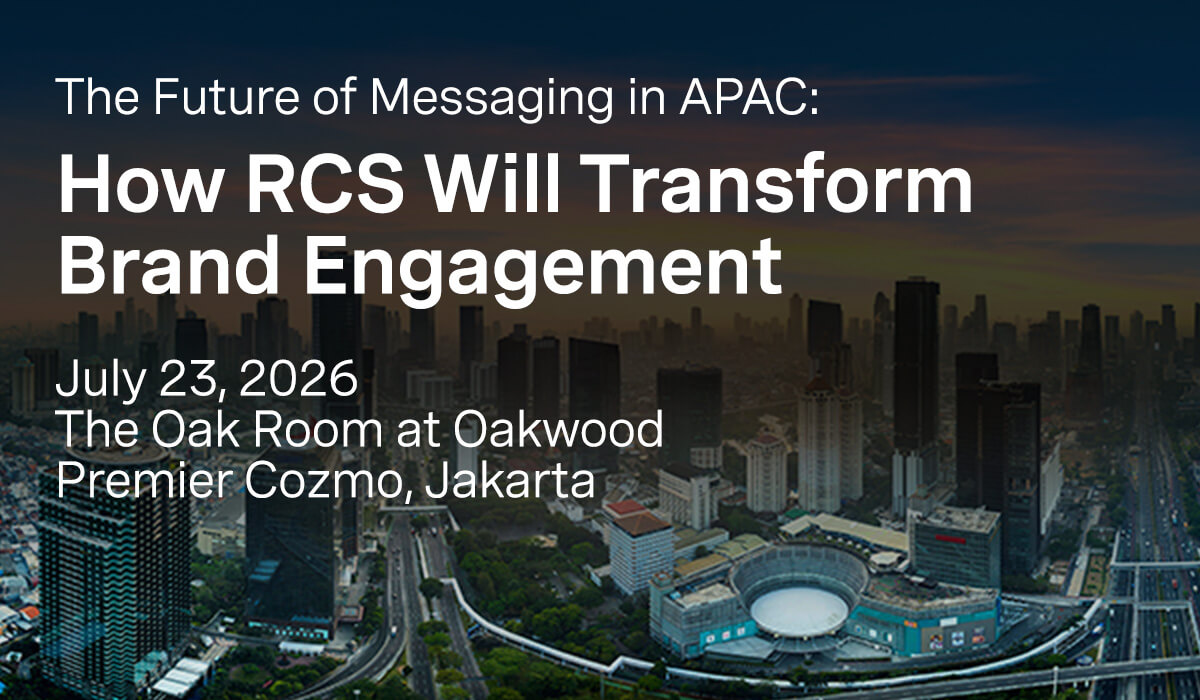
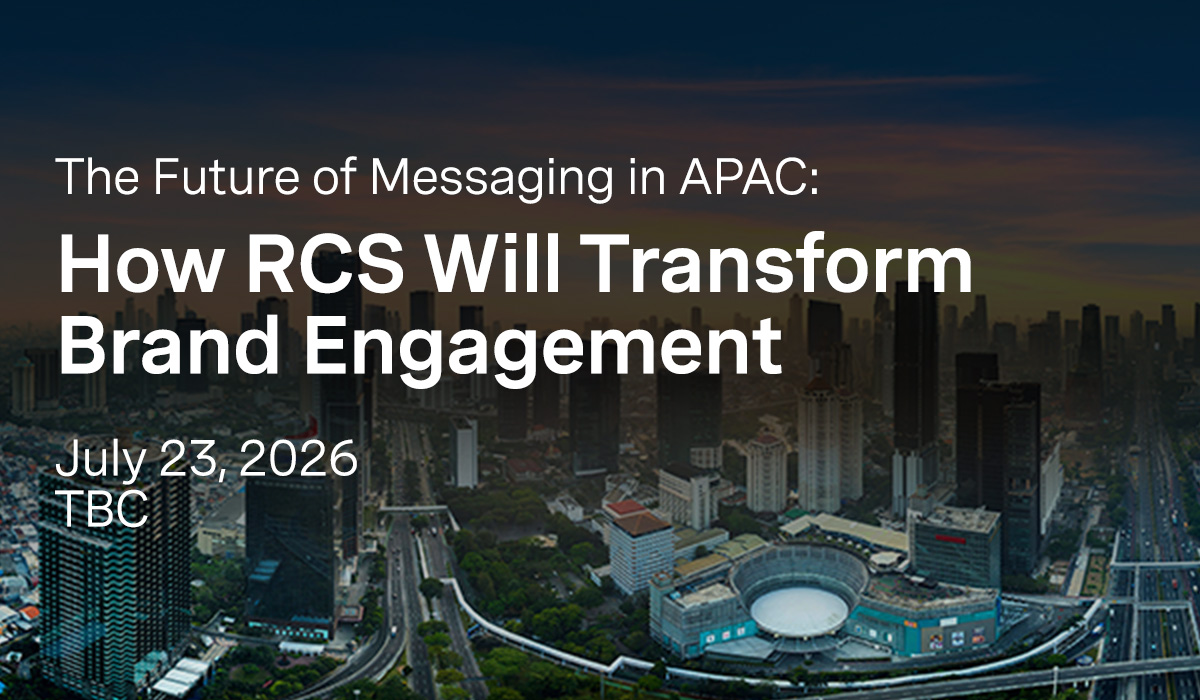
TBC

Changed region(s): [[0.0308, 0.33, 0.8325, 0.75], [0.0308, 0.21, 0.8325, 0.3], [0.0308, 0.09, 0.6783, 0.18]]

diff --git a/index.html b/index.html
@@ -51,4 +51,4 @@
             a[x-apple-data-detectors] { color: inherit !important; text-decoration: none !important; font-size: inherit !important; font-family: inherit !important;vfont-weight: inherit !important; line-height: inherit !important; }
             @media only screen and (max-width:480px) {  
             }
-    </style><meta name="color-scheme" content="light"><meta name="supported-color-schemes" content="light"></head><body class="body-wrapper" style="word-spacing:normal;background-color:#ffffff;"> <div aria-label="Confirmation" aria-roledescription="email" role="article" lang="en" dir="ltr" style="word-spacing:normal;background-color:#ffffff;"> <!--[if mso | IE]><table align="center" border="0" cellpadding="0" cellspacing="0" class="" role="presentation" style="width:600px;" width="600" ><tr><td style="line-height:0px;font-size:0px;mso-line-height-rule:exactly;"><![endif]--> <div style="margin:0px auto;max-width:600px;"> <table align="center" border="0" cellpadding="0" cellspacing="0" role="presentation" style="width:100%;"> <tbody> <tr> <td style="direction:ltr;font-size:0px;padding:0;text-align:center;"> <!--[if mso | IE]><table role="presentation" border="0" cellpadding="0" cellspacing="0"><tr><td class="" style="vertical-align:top;width:600px;" ><![endif]--> <div class="mj-column-per-100 mj-outlook-group-fix" style="font-size:0px;text-align:left;direction:ltr;display:inline-block;vertical-align:top;width:100%;"> <table border="0" cellpadding="0" cellspacing="0" role="presentation" width="100%"> <tbody> <tr> <td style="vertical-align:top;padding:0;"> <table border="0" cellpadding="0" cellspacing="0" role="presentation" width="100%"> <tbody> <tr> <td align="right" style="font-size:0px;padding:10px;word-break:break-word;"> <div style="font-family:Roboto, sans-serif;font-size:12px;line-height:22px;text-align:right;color:#A1A1A1;">No images? <webversion style="color: #A1A1A1; text-decoration: underline; font-family: Roboto, sans-serif; font-size: 12px; line-height: 22px; color: #A1A1A1; text-decoration: underline; cursor:pointer;"> <span style="color: #A1A1A1; text-decoration: underline; font-family: Roboto, sans-serif; font-size: 12px; line-height: 22px; color: #A1A1A1; text-decoration: underline; cursor:pointer;">Click here</span> </webversion></div> </td> </tr> </tbody> </table> </td> </tr> </tbody> </table> </div> <!--[if mso | IE]></td></tr></table><![endif]--> </td> </tr> </tbody> </table> </div> <!--[if mso | IE]></td></tr></table><table align="center" border="0" cellpadding="0" cellspacing="0" class="" role="presentation" style="width:600px;" width="600" ><tr><td style="line-height:0px;font-size:0px;mso-line-height-rule:exactly;"><![endif]--> <div style="margin:0px auto;max-width:600px;"> <table align="center" border="0" cellpadding="0" cellspacing="0" role="presentation" style="width:100%;"> <tbody> <tr> <td style="direction:ltr;font-size:0px;padding:0;text-align:center;"> <!--[if mso | IE]><table role="presentation" border="0" cellpadding="0" cellspacing="0"><tr><td class="" style="vertical-align:top;width:600px;" ><![endif]--> <div class="mj-column-per-100 mj-outlook-group-fix" style="font-size:0px;text-align:left;direction:ltr;display:inline-block;vertical-align:top;width:100%;"> <table border="0" cellpadding="0" cellspacing="0" role="presentation" width="100%"> <tbody> <tr> <td style="vertical-align:top;padding:0;"> <table border="0" cellpadding="0" cellspacing="0" role="presentation" width="100%"> <tbody> <tr> <td align="center" style="font-size:0px;padding:0;word-break:break-word;"> <table border="0" cellpadding="0" cellspacing="0" role="presentation" style="border-collapse:collapse;border-spacing:0px;"> <tbody> <tr> <td style="width:600px;"> <a href="https://telkomsel.vonagefuturesecure.com//" target="_blank"> <img alt="How RCS will transform Brand engagement" src="images/23Header.jpg" style="border:0;display:block;outline:none;text-decoration:none;height:auto;width:100%;font-size:13px;" width="600" height="auto"> </a> </td> </tr> </tbody> </table> </td> </tr> </tbody> </table> </td> </tr> </tbody> </table> </div> <!--[if mso | IE]></td></tr></table><![endif]--> </td> </tr> </tbody> </table> </div> <!--[if mso | IE]></td></tr></table><table align="center" border="0" cellpadding="0" cellspacing="0" class="" role="presentation" style="width:600px;" width="600" ><tr><td style="line-height:0px;font-size:0px;mso-line-height-rule:exactly;"><![endif]--> <div style="margin:0px auto;max-width:600px;"> <table align="center" border="0" cellpadding="0" cellspacing="0" role="presentation" style="width:100%;"> <tbody> <tr> <td style="direction:ltr;font-size:0px;padding:0;text-align:center;"> <!--[if mso | IE]><table role="presentation" border="0" cellpadding="0" cellspacing="0"><tr><td class="" style="vertical-align:top;width:600px;" ><![endif]--> <div class="mj-column-per-100 mj-outlook-group-fix" style="font-size:0px;text-align:left;direction:ltr;display:inline-block;vertical-align:top;width:100%;"> <table border="0" cellpadding="0" cellspacing="0" role="presentation" width="100%"> <tbody> <tr> <td style="vertical-align:top;padding:60px 30px 60px 30px;"> <table border="0" cellpadding="0" cellspacing="0" role="presentation" width="100%"> <tbody> <tr> <td align="left" style="font-size:0px;padding:0;padding-bottom:30px;word-break:break-word;"> <div style="font-family:Roboto, sans-serif;font-size:16px;line-height:26px;text-align:left;color:#000000;">Dear [firstname,fallback=],</div> </td> </tr> <tr> <td align="left" style="font-size:0px;padding:0;padding-bottom:30px;word-break:break-word;"> <div style="font-family:Roboto, sans-serif;font-size:16px;line-height:26px;text-align:left;color:#000000;">Thank you for registering for <b>The Future of Messaging in APAC: How RCS Will Transform Brand Engagement</b>, hosted by Vonage. We're pleased to confirm your attendance.</div> </td> </tr> <tr> <td align="left" style="font-size:0px;padding:0;padding-bottom:30px;word-break:break-word;"> <div style="font-family:Roboto, sans-serif;font-size:16px;line-height:36px;text-align:left;color:#000000;"><b>Event details:</b><br> 📅 23 July 2026<br> 🕙 10:00 AM - 3:00 PM<br> 📍 <a href="https://www.discoverasr.com/en/oakwood/indonesia/oakwood-premier-cozmo-jakarta/dining" target="_blank" style="color: #000000; text-decoration:underline !important;">Oakroom Restaurant &amp; Bar</a></div> </td> </tr> <tr> <td align="left" style="font-size:0px;padding:0;padding-bottom:30px;word-break:break-word;"> <div style="font-family:Roboto, sans-serif;font-size:16px;line-height:22px;text-align:left;color:#000000;">You'll be joining industry leaders and experts from <b>Vonage</b> and <b>Telkomsel</b> to explore how RCS is shaping the future of business messaging in APAC. Additional event information, including venue details, will be sent ahead of the event.</div> </td> </tr> <tr> <td align="left" style="font-size:0px;padding:0;padding-bottom:30px;word-break:break-word;"> <div style="font-family:Roboto, sans-serif;font-size:16px;line-height:22px;text-align:left;color:#000000;">We look forward to seeing you there.</div> </td> </tr> <tr> <td align="left" style="font-size:0px;padding:0;word-break:break-word;"> <div style="font-family:Roboto, sans-serif;font-size:16px;line-height:22px;text-align:left;color:#000000;">Kind regards,<br> <b>Vonage</b><br> APAC RCS Event Team</div> </td> </tr> </tbody> </table> </td> </tr> </tbody> </table> </div> <!--[if mso | IE]></td></tr></table><![endif]--> </td> </tr> </tbody> </table> </div> <!--[if mso | IE]></td></tr></table><table align="center" border="0" cellpadding="0" cellspacing="0" class="" role="presentation" style="width:600px;" width="600" ><tr><td style="line-height:0px;font-size:0px;mso-line-height-rule:exactly;"><![endif]--> <div style="margin:0px auto;max-width:600px;"> <table align="center" border="0" cellpadding="0" cellspacing="0" role="presentation" style="width:100%;"> <tbody> <tr> <td style="direction:ltr;font-size:0px;padding:0 30px 60px 30px;text-align:center;"> <!--[if mso | IE]><table role="presentation" border="0" cellpadding="0" cellspacing="0"><tr><td class="" style="vertical-align:top;width:540px;" ><![endif]--> <div class="mj-column-per-100 mj-outlook-group-fix" style="font-size:0px;text-align:left;direction:ltr;display:inline-block;vertical-align:top;width:100%;"> <table border="0" cellpadding="0" cellspacing="0" role="presentation" width="100%"> <tbody> <tr> <td style="vertical-align:top;padding:0;"> <table border="0" cellpadding="0" cellspacing="0" role="presentation" width="100%"> <tbody> <tr> <td align="left" style="font-size:0px;padding:0;word-break:break-word;"> <div style="font-family:Roboto, sans-serif;font-size:12px;line-height:22px;text-align:left;color:#A1A1A1;"><preferences style="color: #A1A1A1; text-decoration: underline; font-family: Roboto, sans-serif; font-size: 12px; line-height: 22px; color: #A1A1A1; text-decoration: underline; cursor:pointer;"> <span style="color: #A1A1A1; text-decoration: underline; font-family: Roboto, sans-serif; font-size: 12px; line-height: 22px; color: #A1A1A1; text-decoration: underline; cursor:pointer;">Preferences</span> </preferences> &nbsp;&nbsp;|&nbsp;&nbsp; <unsubscribe style="color: #A1A1A1; text-decoration: underline; font-family: Roboto, sans-serif; font-size: 12px; line-height: 22px; color: #A1A1A1; text-decoration: underline; cursor:pointer;"> <span style="color: #A1A1A1; text-decoration: underline; font-family: Roboto, sans-serif; font-size: 12px; line-height: 22px; color: #A1A1A1; text-decoration: underline; cursor:pointer;">Unsubscribe</span> </unsubscribe></div> </td> </tr> </tbody> </table> </td> </tr> </tbody> </table> </div> <!--[if mso | IE]></td></tr></table><![endif]--> </td> </tr> </tbody> </table> </div> <!--[if mso | IE]></td></tr></table><![endif]--> </div> </body></html>
+    </style><meta name="color-scheme" content="light"><meta name="supported-color-schemes" content="light"></head><body class="body-wrapper" style="word-spacing:normal;background-color:#ffffff;"> <div aria-label="Confirmation" aria-roledescription="email" role="article" lang="en" dir="ltr" style="word-spacing:normal;background-color:#ffffff;"> <!--[if mso | IE]><table align="center" border="0" cellpadding="0" cellspacing="0" class="" role="presentation" style="width:600px;" width="600" ><tr><td style="line-height:0px;font-size:0px;mso-line-height-rule:exactly;"><![endif]--> <div style="margin:0px auto;max-width:600px;"> <table align="center" border="0" cellpadding="0" cellspacing="0" role="presentation" style="width:100%;"> <tbody> <tr> <td style="direction:ltr;font-size:0px;padding:0;text-align:center;"> <!--[if mso | IE]><table role="presentation" border="0" cellpadding="0" cellspacing="0"><tr><td class="" style="vertical-align:top;width:600px;" ><![endif]--> <div class="mj-column-per-100 mj-outlook-group-fix" style="font-size:0px;text-align:left;direction:ltr;display:inline-block;vertical-align:top;width:100%;"> <table border="0" cellpadding="0" cellspacing="0" role="presentation" width="100%"> <tbody> <tr> <td style="vertical-align:top;padding:0;"> <table border="0" cellpadding="0" cellspacing="0" role="presentation" width="100%"> <tbody> <tr> <td align="right" style="font-size:0px;padding:10px;word-break:break-word;"> <div style="font-family:Roboto, sans-serif;font-size:12px;line-height:22px;text-align:right;color:#A1A1A1;">No images? <webversion style="color: #A1A1A1; text-decoration: underline; font-family: Roboto, sans-serif; font-size: 12px; line-height: 22px; color: #A1A1A1; text-decoration: underline; cursor:pointer;"> <span style="color: #A1A1A1; text-decoration: underline; font-family: Roboto, sans-serif; font-size: 12px; line-height: 22px; color: #A1A1A1; text-decoration: underline; cursor:pointer;">Click here</span> </webversion></div> </td> </tr> </tbody> </table> </td> </tr> </tbody> </table> </div> <!--[if mso | IE]></td></tr></table><![endif]--> </td> </tr> </tbody> </table> </div> <!--[if mso | IE]></td></tr></table><table align="center" border="0" cellpadding="0" cellspacing="0" class="" role="presentation" style="width:600px;" width="600" ><tr><td style="line-height:0px;font-size:0px;mso-line-height-rule:exactly;"><![endif]--> <div style="margin:0px auto;max-width:600px;"> <table align="center" border="0" cellpadding="0" cellspacing="0" role="presentation" style="width:100%;"> <tbody> <tr> <td style="direction:ltr;font-size:0px;padding:0;text-align:center;"> <!--[if mso | IE]><table role="presentation" border="0" cellpadding="0" cellspacing="0"><tr><td class="" style="vertical-align:top;width:600px;" ><![endif]--> <div class="mj-column-per-100 mj-outlook-group-fix" style="font-size:0px;text-align:left;direction:ltr;display:inline-block;vertical-align:top;width:100%;"> <table border="0" cellpadding="0" cellspacing="0" role="presentation" width="100%"> <tbody> <tr> <td style="vertical-align:top;padding:0;"> <table border="0" cellpadding="0" cellspacing="0" role="presentation" width="100%"> <tbody> <tr> <td align="center" style="font-size:0px;padding:0;word-break:break-word;"> <table border="0" cellpadding="0" cellspacing="0" role="presentation" style="border-collapse:collapse;border-spacing:0px;"> <tbody> <tr> <td style="width:600px;"> <a href="https://telkomsel.vonagefuturesecure.com//" target="_blank"> <img alt="How RCS will transform Brand engagement" src="images/23Header.jpg" style="border:0;display:block;outline:none;text-decoration:none;height:auto;width:100%;font-size:13px;" width="600" height="auto"> </a> </td> </tr> </tbody> </table> </td> </tr> </tbody> </table> </td> </tr> </tbody> </table> </div> <!--[if mso | IE]></td></tr></table><![endif]--> </td> </tr> </tbody> </table> </div> <!--[if mso | IE]></td></tr></table><table align="center" border="0" cellpadding="0" cellspacing="0" class="" role="presentation" style="width:600px;" width="600" ><tr><td style="line-height:0px;font-size:0px;mso-line-height-rule:exactly;"><![endif]--> <div style="margin:0px auto;max-width:600px;"> <table align="center" border="0" cellpadding="0" cellspacing="0" role="presentation" style="width:100%;"> <tbody> <tr> <td style="direction:ltr;font-size:0px;padding:0;text-align:center;"> <!--[if mso | IE]><table role="presentation" border="0" cellpadding="0" cellspacing="0"><tr><td class="" style="vertical-align:top;width:600px;" ><![endif]--> <div class="mj-column-per-100 mj-outlook-group-fix" style="font-size:0px;text-align:left;direction:ltr;display:inline-block;vertical-align:top;width:100%;"> <table border="0" cellpadding="0" cellspacing="0" role="presentation" width="100%"> <tbody> <tr> <td style="vertical-align:top;padding:60px 30px 60px 30px;"> <table border="0" cellpadding="0" cellspacing="0" role="presentation" width="100%"> <tbody> <tr> <td align="left" style="font-size:0px;padding:0;padding-bottom:30px;word-break:break-word;"> <div style="font-family:Roboto, sans-serif;font-size:16px;line-height:26px;text-align:left;color:#000000;">Dear [firstname,fallback=],</div> </td> </tr> <tr> <td align="left" style="font-size:0px;padding:0;padding-bottom:30px;word-break:break-word;"> <div style="font-family:Roboto, sans-serif;font-size:16px;line-height:26px;text-align:left;color:#000000;">Thank you for registering for <b>The Future of Messaging in APAC: How RCS Will Transform Brand Engagement</b>, hosted by Vonage. We're pleased to confirm your attendance.</div> </td> </tr> <tr> <td align="left" style="font-size:0px;padding:0;padding-bottom:30px;word-break:break-word;"> <div style="font-family:Roboto, sans-serif;font-size:16px;line-height:36px;text-align:left;color:#000000;"><b>Event details:</b><br> 📅 23 July 2026<br> 🕙 10:00 AM - 3:00 PM<br> 📍 TBC</div> </td> </tr> <tr> <td align="left" style="font-size:0px;padding:0;padding-bottom:30px;word-break:break-word;"> <div style="font-family:Roboto, sans-serif;font-size:16px;line-height:22px;text-align:left;color:#000000;">You'll be joining industry leaders and experts from <b>Vonage</b> and <b>Telkomsel</b> to explore how RCS is shaping the future of business messaging in APAC. Additional event information, including venue details, will be sent ahead of the event.</div> </td> </tr> <tr> <td align="left" style="font-size:0px;padding:0;padding-bottom:30px;word-break:break-word;"> <div style="font-family:Roboto, sans-serif;font-size:16px;line-height:22px;text-align:left;color:#000000;">We look forward to seeing you there.</div> </td> </tr> <tr> <td align="left" style="font-size:0px;padding:0;word-break:break-word;"> <div style="font-family:Roboto, sans-serif;font-size:16px;line-height:22px;text-align:left;color:#000000;">Kind regards,<br> <b>Vonage</b><br> APAC RCS Event Team</div> </td> </tr> </tbody> </table> </td> </tr> </tbody> </table> </div> <!--[if mso | IE]></td></tr></table><![endif]--> </td> </tr> </tbody> </table> </div> <!--[if mso | IE]></td></tr></table><table align="center" border="0" cellpadding="0" cellspacing="0" class="" role="presentation" style="width:600px;" width="600" ><tr><td style="line-height:0px;font-size:0px;mso-line-height-rule:exactly;"><![endif]--> <div style="margin:0px auto;max-width:600px;"> <table align="center" border="0" cellpadding="0" cellspacing="0" role="presentation" style="width:100%;"> <tbody> <tr> <td style="direction:ltr;font-size:0px;padding:0 30px 60px 30px;text-align:center;"> <!--[if mso | IE]><table role="presentation" border="0" cellpadding="0" cellspacing="0"><tr><td class="" style="vertical-align:top;width:540px;" ><![endif]--> <div class="mj-column-per-100 mj-outlook-group-fix" style="font-size:0px;text-align:left;direction:ltr;display:inline-block;vertical-align:top;width:100%;"> <table border="0" cellpadding="0" cellspacing="0" role="presentation" width="100%"> <tbody> <tr> <td style="vertical-align:top;padding:0;"> <table border="0" cellpadding="0" cellspacing="0" role="presentation" width="100%"> <tbody> <tr> <td align="left" style="font-size:0px;padding:0;word-break:break-word;"> <div style="font-family:Roboto, sans-serif;font-size:12px;line-height:22px;text-align:left;color:#A1A1A1;"><preferences style="color: #A1A1A1; text-decoration: underline; font-family: Roboto, sans-serif; font-size: 12px; line-height: 22px; color: #A1A1A1; text-decoration: underline; cursor:pointer;"> <span style="color: #A1A1A1; text-decoration: underline; font-family: Roboto, sans-serif; font-size: 12px; line-height: 22px; color: #A1A1A1; text-decoration: underline; cursor:pointer;">Preferences</span> </preferences> &nbsp;&nbsp;|&nbsp;&nbsp; <unsubscribe style="color: #A1A1A1; text-decoration: underline; font-family: Roboto, sans-serif; font-size: 12px; line-height: 22px; color: #A1A1A1; text-decoration: underline; cursor:pointer;"> <span style="color: #A1A1A1; text-decoration: underline; font-family: Roboto, sans-serif; font-size: 12px; line-height: 22px; color: #A1A1A1; text-decoration: underline; cursor:pointer;">Unsubscribe</span> </unsubscribe></div> </td> </tr> </tbody> </table> </td> </tr> </tbody> </table> </div> <!--[if mso | IE]></td></tr></table><![endif]--> </td> </tr> </tbody> </table> </div> <!--[if mso | IE]></td></tr></table><![endif]--> </div> </body></html>